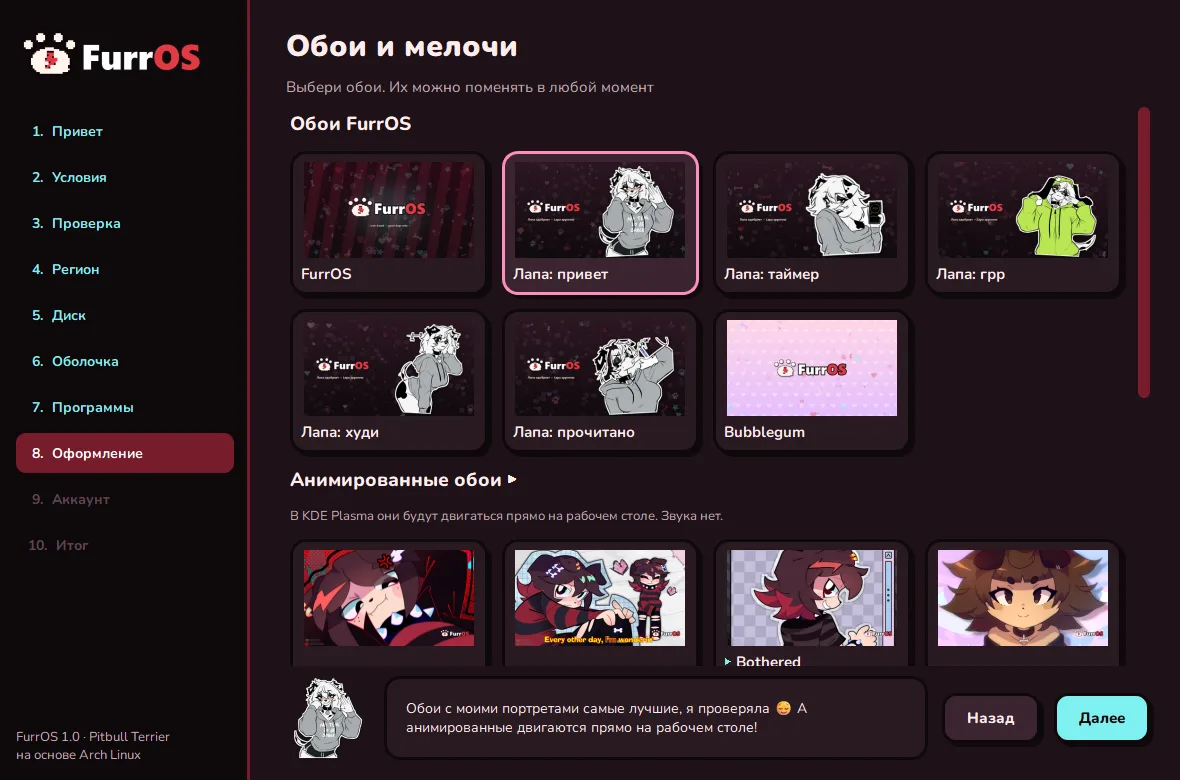
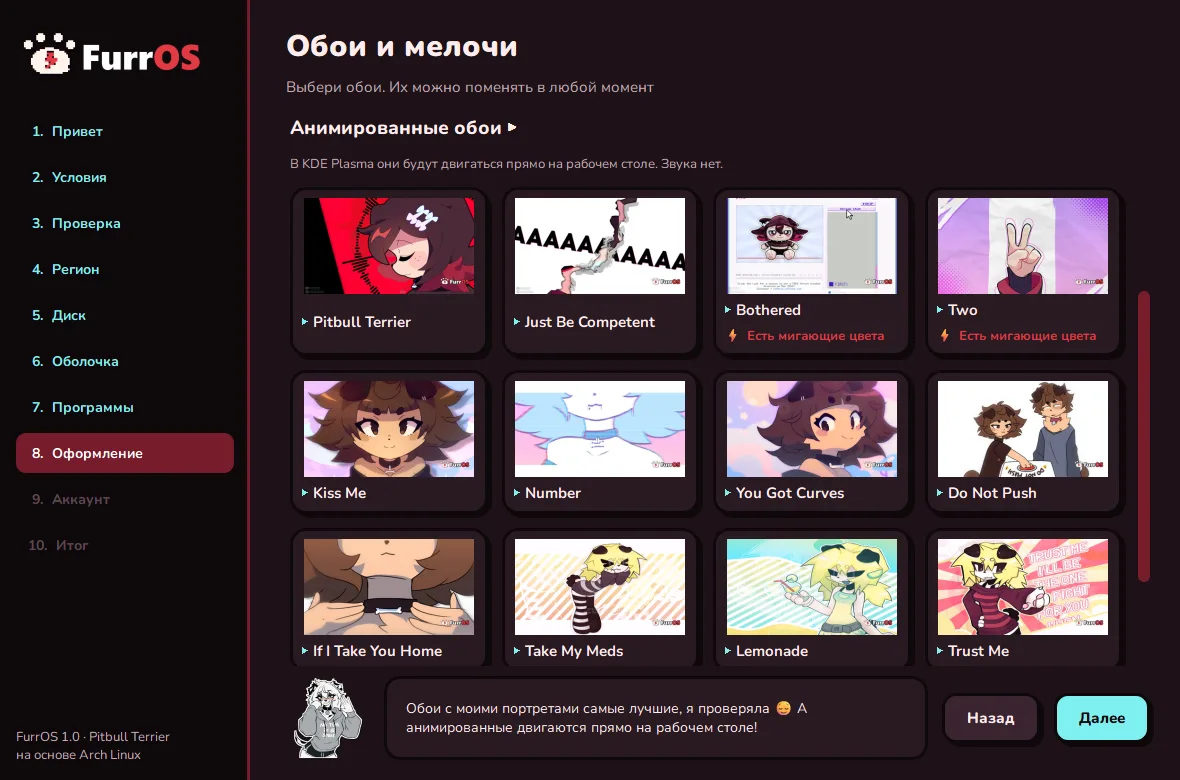
Wallpapers: three new taroyadda animations, updated installer screenshot and live wallpaper grid

Changed region(s): [[0.2441, 0.1538, 0.7627, 0.8615], [0.7932, 0.1231, 0.9763, 0.8615], [0.6102, 0.6769, 0.7627, 0.8615]]

diff --git a/README.es.md b/README.es.md
@@ -100,6 +100,11 @@ Cada uno tiene el estilo FurrOS justo después de instalar.
 <img src="docs/wp-static.webp" width="32%" />
 </p>
 
+### Fondos animados
+12 fondos animados: en KDE, Hyprland, Sway y Niri se mueven directamente en el escritorio.
+
+<img src="docs/wp-animated.webp" alt="Fondos animados" width="100%" />
+
 ## Enlaces
 
 - 🌐 Web: **[furros.xyz](https://furros.xyz/)**

diff --git a/README.md b/README.md
@@ -100,6 +100,11 @@
 <img src="docs/wp-static.webp" width="32%" />
 </p>
 
+### Живые обои
+12 живых обоев: на KDE, Hyprland, Sway и Niri они двигаются прямо на рабочем столе.
+
+<img src="docs/wp-animated.webp" alt="Живые обои" width="100%" />
+
 ## Ссылки
 
 - 🌐 Сайт: **[furros.xyz](https://furros.xyz/)**

diff --git a/README.en.md b/README.en.md
@@ -100,6 +100,11 @@ Each one is styled as FurrOS right after installation.
 <img src="docs/wp-static.webp" width="32%" />
 </p>
 
+### Live wallpapers
+12 live wallpapers: on KDE, Hyprland, Sway and Niri they move right on the desktop.
+
+<img src="docs/wp-animated.webp" alt="Live wallpapers" width="100%" />
+
 ## Links
 
 - 🌐 Website: **[furros.xyz](https://furros.xyz/)**

diff --git a/README.pl.md b/README.pl.md
@@ -100,6 +100,11 @@ Każdy ma styl FurrOS od razu po instalacji.
 <img src="docs/wp-static.webp" width="32%" />
 </p>
 
+### Animowane tapety
+12 animowanych tapet: w KDE, Hyprland, Sway i Niri ruszają się prosto na pulpicie.
+
+<img src="docs/wp-animated.webp" alt="Animowane tapety" width="100%" />
+
 ## Linki
 
 - 🌐 Strona: **[furros.xyz](https://furros.xyz/)**
